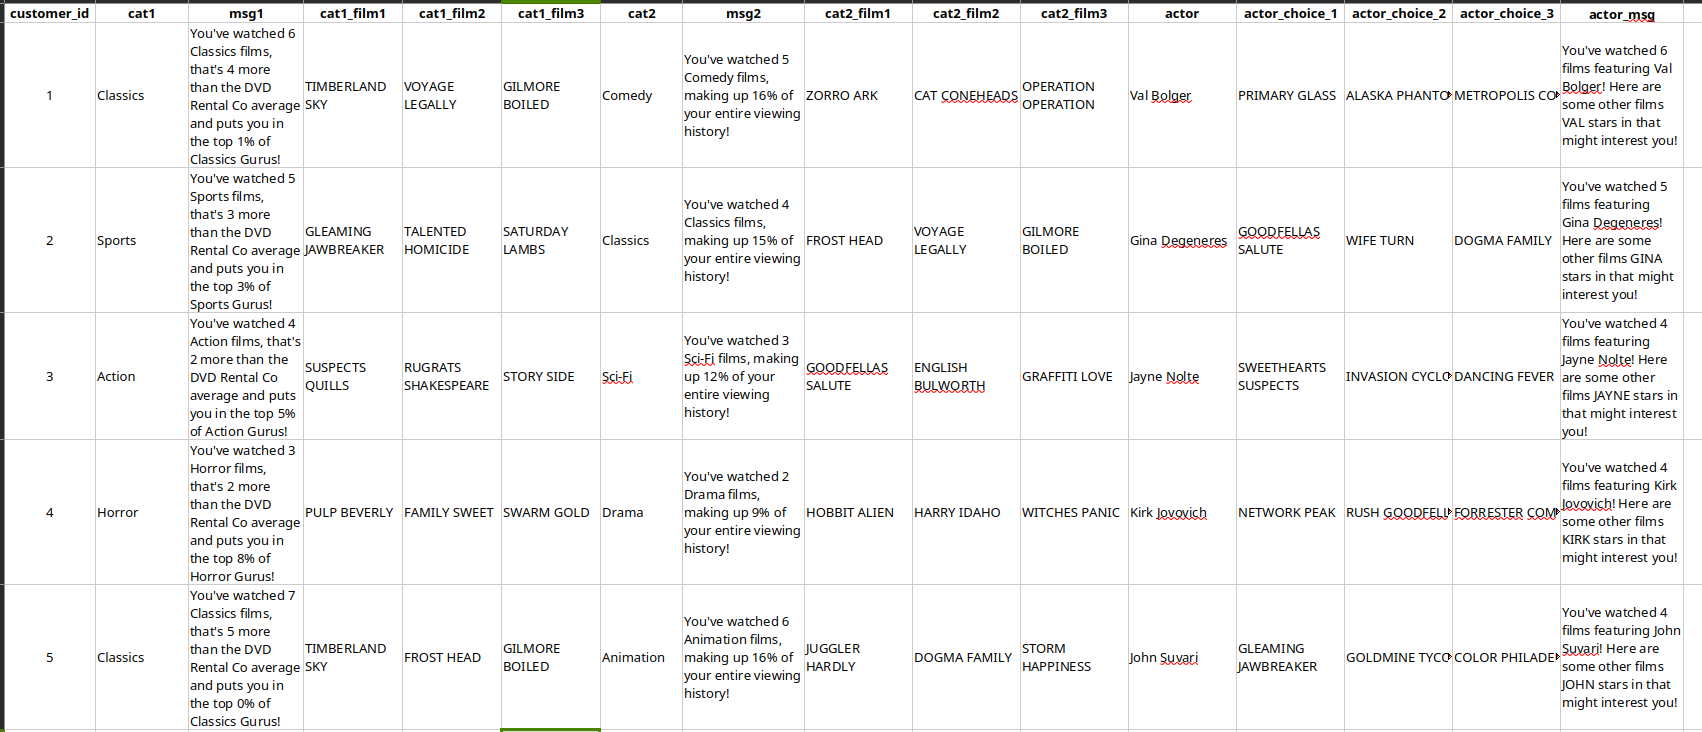
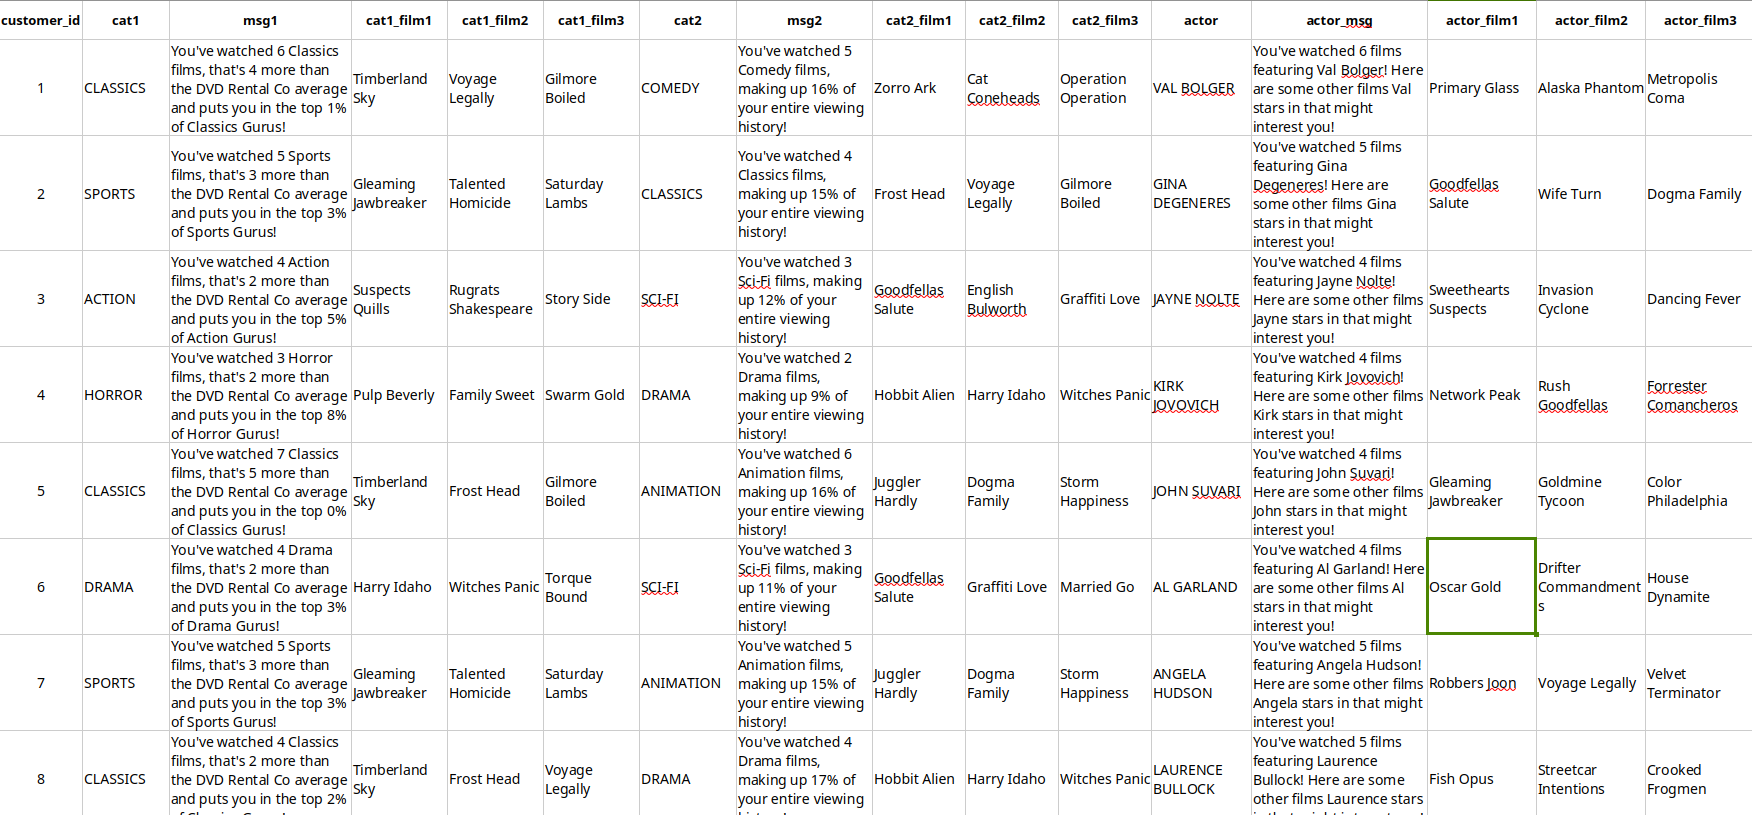
Improved project description. - Structured queries in sql script. - Added email result.

Changed region(s): [[0.0, 0.0, 1.0, 1.0], [0.5917, 0.4208, 0.6228, 0.4508], [0.5294, 0.4208, 0.5605, 0.4508]]

diff --git a/Marketing_Analytics/README.md b/Marketing_Analytics/README.md
@@ -34,7 +34,7 @@ The table below summarises our observations on each insight.
  
  ## 2. The Data
 
-The data for this problem is available in the DVD Rental Co database and the tables needed are shown in the entity relationship diagram (ERD) below.
+The data for this project is available in the DVD Rental Co database and the tables needed are shown in the entity relationship diagram (ERD) below.
 
 ![DVD Rental Co ERD](er-1.png)
 
@@ -44,10 +44,10 @@ We observe that all these tables are linked by foreign keys, though not directly
 | --------| ----------------| ------------------ | ---------- | ---------- |
 | 1 and 2 | These two tables need to be joined because from the ERD, we see that the only way of associating a rental to a film is via the inventory table and we need to know which films were rented. | - Every rental operation (in table 1) has to be based on an inventory item (in table 2). So, an entry in table 1 without a matching inventory in table 2 must be an accident and we can't use that data without correcting it. Hence a left join won't be appropriate.<br>- An inventory not rented is not useful for our analysis so we don't need any record in table 2 that has no corresponding record in table 1. Hence we can't use a right join. | | Inner join |
 | 2 and 3 | We need to join the inventory table to films so that we can know the titles of the films that were rented. |- Every inventory record (in table 2) should correspond to a film (in table 3). So an inventory record not associated to a film could only be an error, making it useless for any analysis. As a result, we can't use a left join.<br>- A film cannot be rented without a corresponding inventory record so a record in table 3 with no matching entry in table 2 is not helpful to our analysis This means a right join isn't an option here. | | Inner join    |
-| 3 and 4 | To provide insights 1 and 4 from our requirements analysis ([Section 1.3](###1.3-requirements-analysis)), we need to know the category each film falls in. | - Every film should belong to only one category.<br>- A film without a category won't be useful in this join. This implies that we can't use a left join here.<br>- A category without films can't provide information for our insight hence it wouldn't be useful. This means we can't use a right join. | - Are there films which fall in more than one category? | Inner join    |
-| 4 and 5 | This join is necessary to get the category names. | - An entry in table 4 with no corresponding entry in table 5 will be a nameless category, something we can't use in our campaign. Hence a left join can't be used here.<br>- An entry in table 5 without a corresponding enty in table 4 cannot be associated to a film, making it useless for our analysis. So, we can't use a right join here. | | Inner join    |
-| 3 and 6 | To provide insights 7, 8 and 9 from our requirements analysis ([Section 1.3](###1.3-requirements-analysis)), we need to know the the actors who feature in each film. | - A film without actors won't be useful in this join. This implies that we can't use a left join here.<br>- An actor who doesn't feature in any film can't be used in our insights hence they wouldn't be useful. This means we can't use a right join. | | Inner join    |
-| 6 and 7 | This join is necessary to get the names of actors. | - An entry in table 6 with no corresponding entry in table 7 represents an actor with no name, something we can't use in our campaign. Hence a left join can't be used here.<br>- An entry in table 7 without a corresponding enty in table 6 cannot be associated to a film, making it useless for our analysis. So, we can't use a right join here. | | Inner join    |
+| 3 and 4 | To provide insights 1 and 4 from our requirements analysis ([Section 1.3](#13-requirements-analysis)), we need to know the category each film falls in. | - Practically, a film could belong to more than one category.<br>- A film without a category won't be useful in this join. This implies that we can't use a left join here.<br>- A category without films can't provide information for our insight hence it wouldn't be useful. This means we can't use a right join. | - Are there films which fall in more than one category? | Inner join    |
+| 4 and 5 | This join is necessary to get the category names. | - An entry in table 4 with no corresponding entry in table 5 will be a nameless category, something we can't use in our campaign. Hence a left join can't be used here.<br>- An entry in table 5 without a corresponding entry in table 4 cannot be associated to a film, making it useless for our analysis. So, we can't use a right join here. | | Inner join    |
+| 3 and 6 | To provide insights 7, 8 and 9 from our requirements analysis ([Section 1.3](#13-requirements-analysis)), we need to know the actors who feature in each film. | - A film with no recorded actors won't be useful in this join. This implies that we can't use a left join here.<br>- An actor who doesn't feature in any film can't be used in our insights. This means we can't use a right join. | | Inner join    |
+| 6 and 7 | This join is necessary to get the names of actors. | - An entry in table 6 with no corresponding entry in table 7 represents an actor with no name, something we can't use in our campaign. Hence a left join can't be used here.<br>- An entry in table 7 without a corresponding entry in table 6 cannot be associated to a film, making it useless for our analysis. So, we can't use a right join here. | | Inner join    |
 
 We run an sql query to verify if any films fall in more than one category.
 ```sql
@@ -72,54 +72,104 @@ Given our problem and the data, our strategy for getting the required informatio
 
 | Id | Insights | Plan | Tables involved | Expected results |
 |----|----------|------|-----------------|------------------|
-| a  | 1, 2, 4 and 5  | - Identify the 2 most watched categories.<br> Calculate:<br>- number of films customer watched in category 1 and category 2<br>- number of films customer watched in category 1, compared to the average number of films each customer watched in same category<br>- percentile customer falls in when compared to other viewers of category 1<br>- number of films watched in category 2 compared with total number of films watched by the customer. | - rental<br>- inventory<br>- film_category | - Category 1<br>- Category 2<br> - cust_cat_rental_count<br>- cat_avg_comparison<br>- cust_cat_percentile<br>- cust_cat_percentage |
-| b  | 3 and 6 | Make 3 film recommendations based on category 1 and 3 film recommendations based on category 2 | Temp tables from (a) +<br>- film<br>- category | - cat1_film1<br>- cat1_film2<br>- cat1_film3<br>-- cat2_film1<br>- cat2_film2<br>- cat2_film3 |
-| c  | 7 | Identify the most watched actor | rental, inventory, film_actor | - fav_actor |
-| d  | 8 and 9 | - Count the number of films customer watched, featuring fav_actor.<br>- Make 3 film recommendations based on fav_actor | - |  - actor_film_count<br>- film1<br>- film2<br>- film3 |
+| a  | 1, 2, 4 and 5  | - Identify the 2 most watched categories.<br> Calculate:<br>- number of films customer watched in category 1 and category 2<br>- number of films customer watched in category 1, compared to the average number of films each customer watched in same category<br>- percentile customer falls in when compared to other viewers of category 1<br>- number of films watched in category 2 compared with total number of films watched by the customer. | - rental<br>- inventory<br>- film<br>- film_category | - Category 1<br>- Category 2<br> - cust_cat_rental_count<br>- cat_avg_comparison<br>- cust_cat_percentile<br>- cust_cat_percentage |
+| b  | 3 and 6 | Make 3 film recommendations based on category 1 and 3 film recommendations based on category 2 | Temp tables from (a) + category | - cat1_film1<br>- cat1_film2<br>- cat1_film3<br>-- cat2_film1<br>- cat2_film2<br>- cat2_film3 |
+| c  | 7 | Identify customer's favourite actor | - rental<br>- inventory<br>- film_actor<br>- actor | - fav_actor |
+| d  | 8 and 9 | - Count the number of films customer watched, featuring fav_actor.<br>- Make 3 film recommendations based on fav_actor | Temp tables from (c) |  - actor_film_count<br>- actor_film1<br>- actor_film2<br>- actor_film3 |
 
 ### 3.2 Code
 
-The SQL code used in this step can be found in the script [here](marketing.sql)
+The complete SQL code used in this step can be found in the script [here](marketing.sql)
 #### a. Identify the 2 most watched categories and get statistics on them
 
-1. Create *joint_tables* to consolidate the data needed to associate film categories with customers via rentals
-2. Remove film duplicates from *joint_tables*
-3. Use *joint_tables* to identify top two categories for each customer. While at it, compute other statistics.
-> When we run a simple query to see the records in the ranked_cust_categpries table, we get the below.
+1. Create *joint_tables* to consolidate the data needed to associate film categories with customers via rentals. Also get the number of films customer watched in each category (cust_cat_rental_count)
+2. Create *distinct_cust_table* to remove duplicates from *joint_tables*.
+3.  Use *joint_tables* to create *ranked_cust_categories* which identifies the top two categories for each customer. . While at it, compute:
+    - number of films customer watched in category, compared to the average number of films each customer watched in same category (cat_avg_comparison)
+    - percentile customer falls in when compared to other viewers of same category (cust_cat_percentile)
+    - number of films watched in category compared with total number of films watched by the customer (cust_cat_percentage).
+  
+When we run a simple query to see the records in the ranked_cust_categories table, we get the below.
 
 ```sql
-SELECT * FROM ranked_cust_categories;
+SELECT * FROM ranked_cust_categories
+LIMIT 15;
 ```
 
 ![Insights 1, 2, 4 and 5](query-3.2a.png)
 
 #### b. Movie recommendations based on Category 1 and Category 2
 
-1. Identify all films a customer has already watched so we don't recommend them to the customer.
-2. Identify the most watched films in each category.
-3. Select the top 3 recommendations for each customer's top 2 categories, filtering out the films they have already watched.
-4. Flatten the recommendations so there's only one record per customer.
+1. Create *cust_watched_films* to store the list of films watched by each customer. This is used to filter out films that have already been watched when generating recommendations.
+2. Create *film_cat_ranking* to identify the most watched films in each category. Use the latest rental date to sort if there's a tie on the number of views.
+3. Select the top 3 recommendations for each customer's top 2 categories, filtering out the films they have already watched. We include a message for each recommendation that provides context on the customer's viewing habits. It is best to do this at this point so that we don't have to query the *ranked_customer_categories* table again, down the line.
+4. Create *cust_cat_recommendations* to summarize the recommendations so there's only one record per customer.
 
-> We run a simple query to see what we have so far ...
+We run a simple query to see what we have so far ...
 ```sql  
   SELECT * FROM cust_cat_recommendations
-  ORDER BY customer_id;
+  ORDER BY customer_id
+  LIMIT 15;
 ```
 ![Insights 3 and 6](query-3.2b.png)
 
-#### c. Identify the most watched actor
+#### c. Identify each customer's favourite (most watched) actor
 
 1. Create *actor_stats* to consolidate the data needed to associate actors with customers via rentals
-2. Identify each customer's favourite actor.
+2. Identify each customer's favourite actor, ranking the actors by number of films watched, then first and last name to get rid of any ties.
 
-#### d. Movie recommendations based on most watched actor
+We run a simple query to see each customer's favourite actor
+```sql  
+  SELECT * FROM cust_fave_actor
+  ORDER BY customer_id
+  LIMIT 15;
+```
+![Insight 7](query-3.2c.png)
 
-1. Use *actor_stats* to identify the most watched films for each actor.
-2. Select the top 3 recommendations for each customer's favourite actor, filtering out the films they have already watched and those already recommended in the categories recommendations.
-3. Flatten the recommendations so there's only one record per customer.
+#### d. Film recommendations based on customer's favourite actor
+
+1. Use *actor_stats* to create *film_actor_ranking* that identifes the most watched films for each actor. Rank the films by number of views, then latest rental date to get rid of any ties.
+2. Create *actor_recommendations* to identify the top 3 recommendations for each customer's favourite actor, filtering out the films they have already watched and those that have already been recommended.
+
+3. Create *cust_actor_recommendations* to summarize the recommendations so there's only one record per customer. Also include a message for each recommendation that provides context on the customer's viewing habits.
+
+We query the *cust_actor_recommendations* table to see what the recommendations look like.
+```sql
+SELECT * FROM cust_actor_recommendations
+ORDER BY customer_id
+LIMIT 15;
+```
+![Insight 8 and 9](query-3.2d.png)
 
 ## Final Output
 
 We consolidate the category and actor recommendations to come up with the final data for the marketing campaign.
+```sql
+SELECT * FROM recommendations
+ORDER BY customer_id
+LIMIT 15;
+```
 
 ![Final output](final.png)
+
+With this data, we can easily generate emails for the email campaign. For example, for the customer with customer_id = 1, the email will look this:
+> ## DVD RENTAL CO
+>*Personalized recommendations from our very own team of film afficionados!*
+> ### CLASSICS
+> You've watched 6 Classics films, that's 4 more than the DVD Rental Co average and puts you in the top 1% of Classics Gurus!<br><br>
+> Your expertly chosen recommendations:
+> 1. Timberland Sky
+> 2. Voyage Legally
+> 3. Gilmore Boiled
+> ### COMEDY
+> You've watched 5 Comedy films, making up 16% of your entire viewing history!<br><br>
+> Your hand-picked recommendations:
+> 1. Zorro Ark
+> 2. Cat Coneheads
+> 3. Operation Operation
+> ### VAL BOLGER
+> You've watched 6 films featuring Val Bolger! Here are some other films Val stars in that might interest you!
+> 1. Primary Glass
+> 2. Alaska Phantom
+> 3. Metropolis Coma <br>
+> ** **

diff --git a/People_Analytics/README.md b/People_Analytics/README.md
@@ -1,7 +1,21 @@
 # People Analytics Portfolio Project
 
-## Overview
-This project focuses on People Analytics, leveraging data to provide insights into workforce trends, employee performance, and organizational dynamics. The goal is to use data analytics techniques to support decision-making and improve human resource strategies.
+## 1. 📚 Introduction
+This Case Study focuses on leveraging SQL to prepare data for a people analytics dashboard. The goal is to help an HR department build a bespoke dashboard and employee view ("Deep dive") page.
+
+### 1.1 🗝 Key Features
+
+- **Data Exploration**: Analyze customer demographics, rent patterns, and engagement metrics.
+- **Communication**: Prepare data for email to present insights effectively.
+
+
+### 1.2 Outcomes
+
+- Improved understanding of customer behavior.
+- Customised marketing emails based on data insights.
+- Optimized campaign performance and ROI.
+
+### 1.3 Requirements Analysis
 
 ## Objectives
 - Analyze workforce data to identify trends and patterns.
